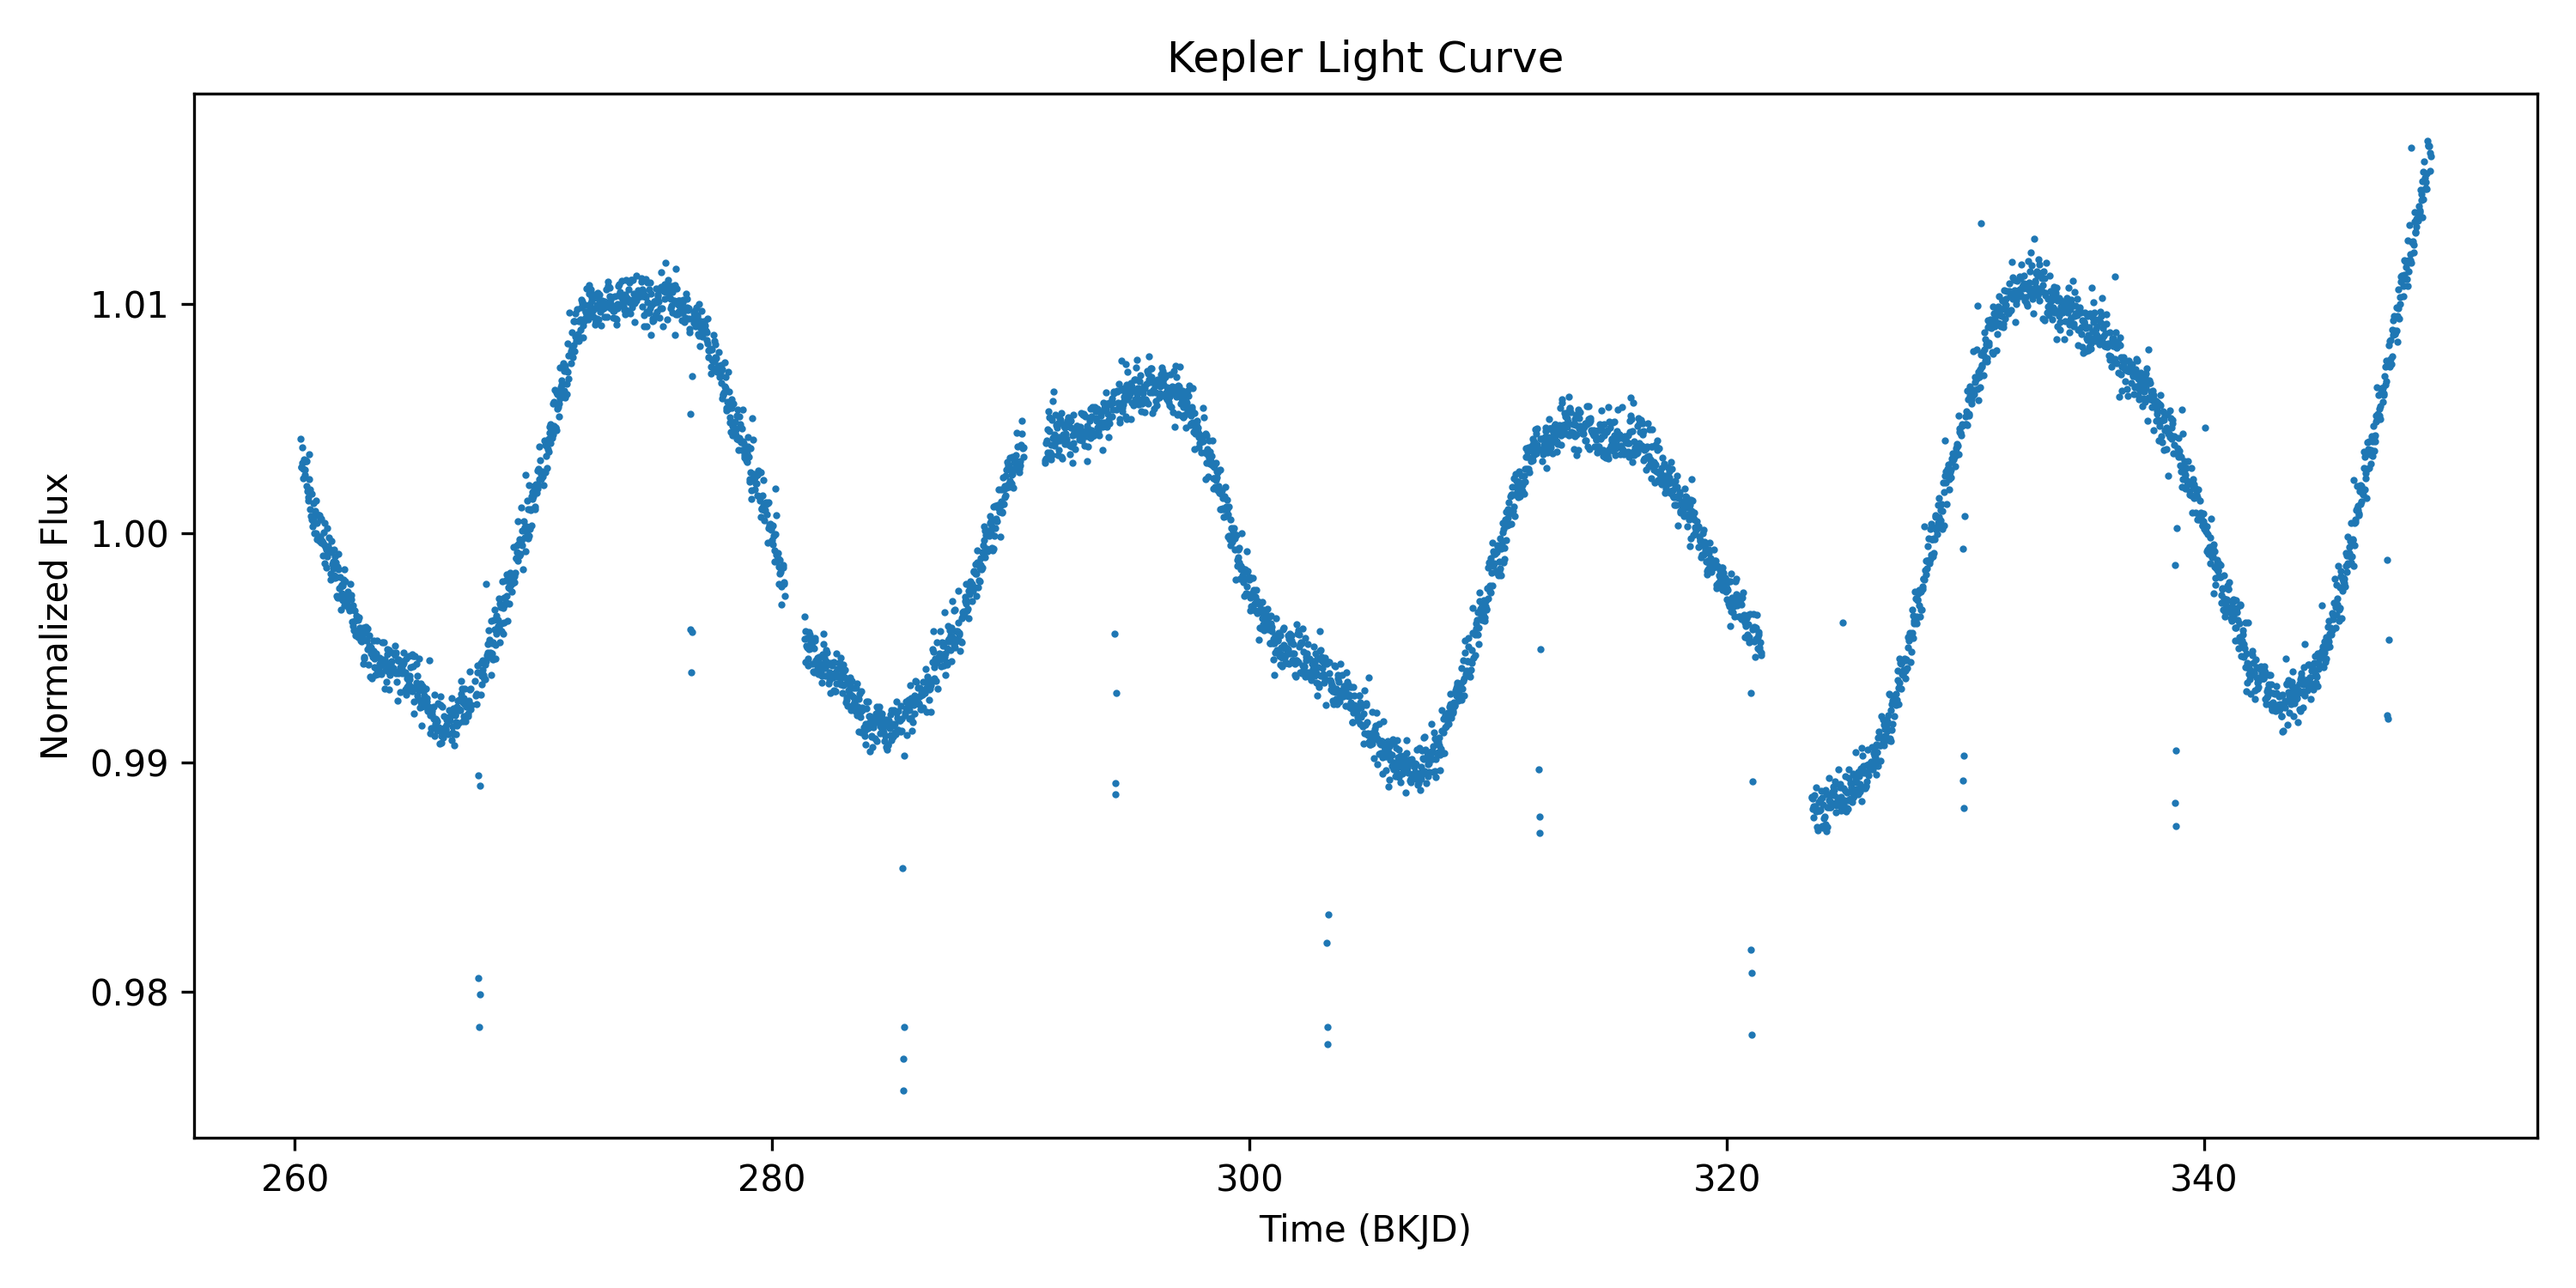
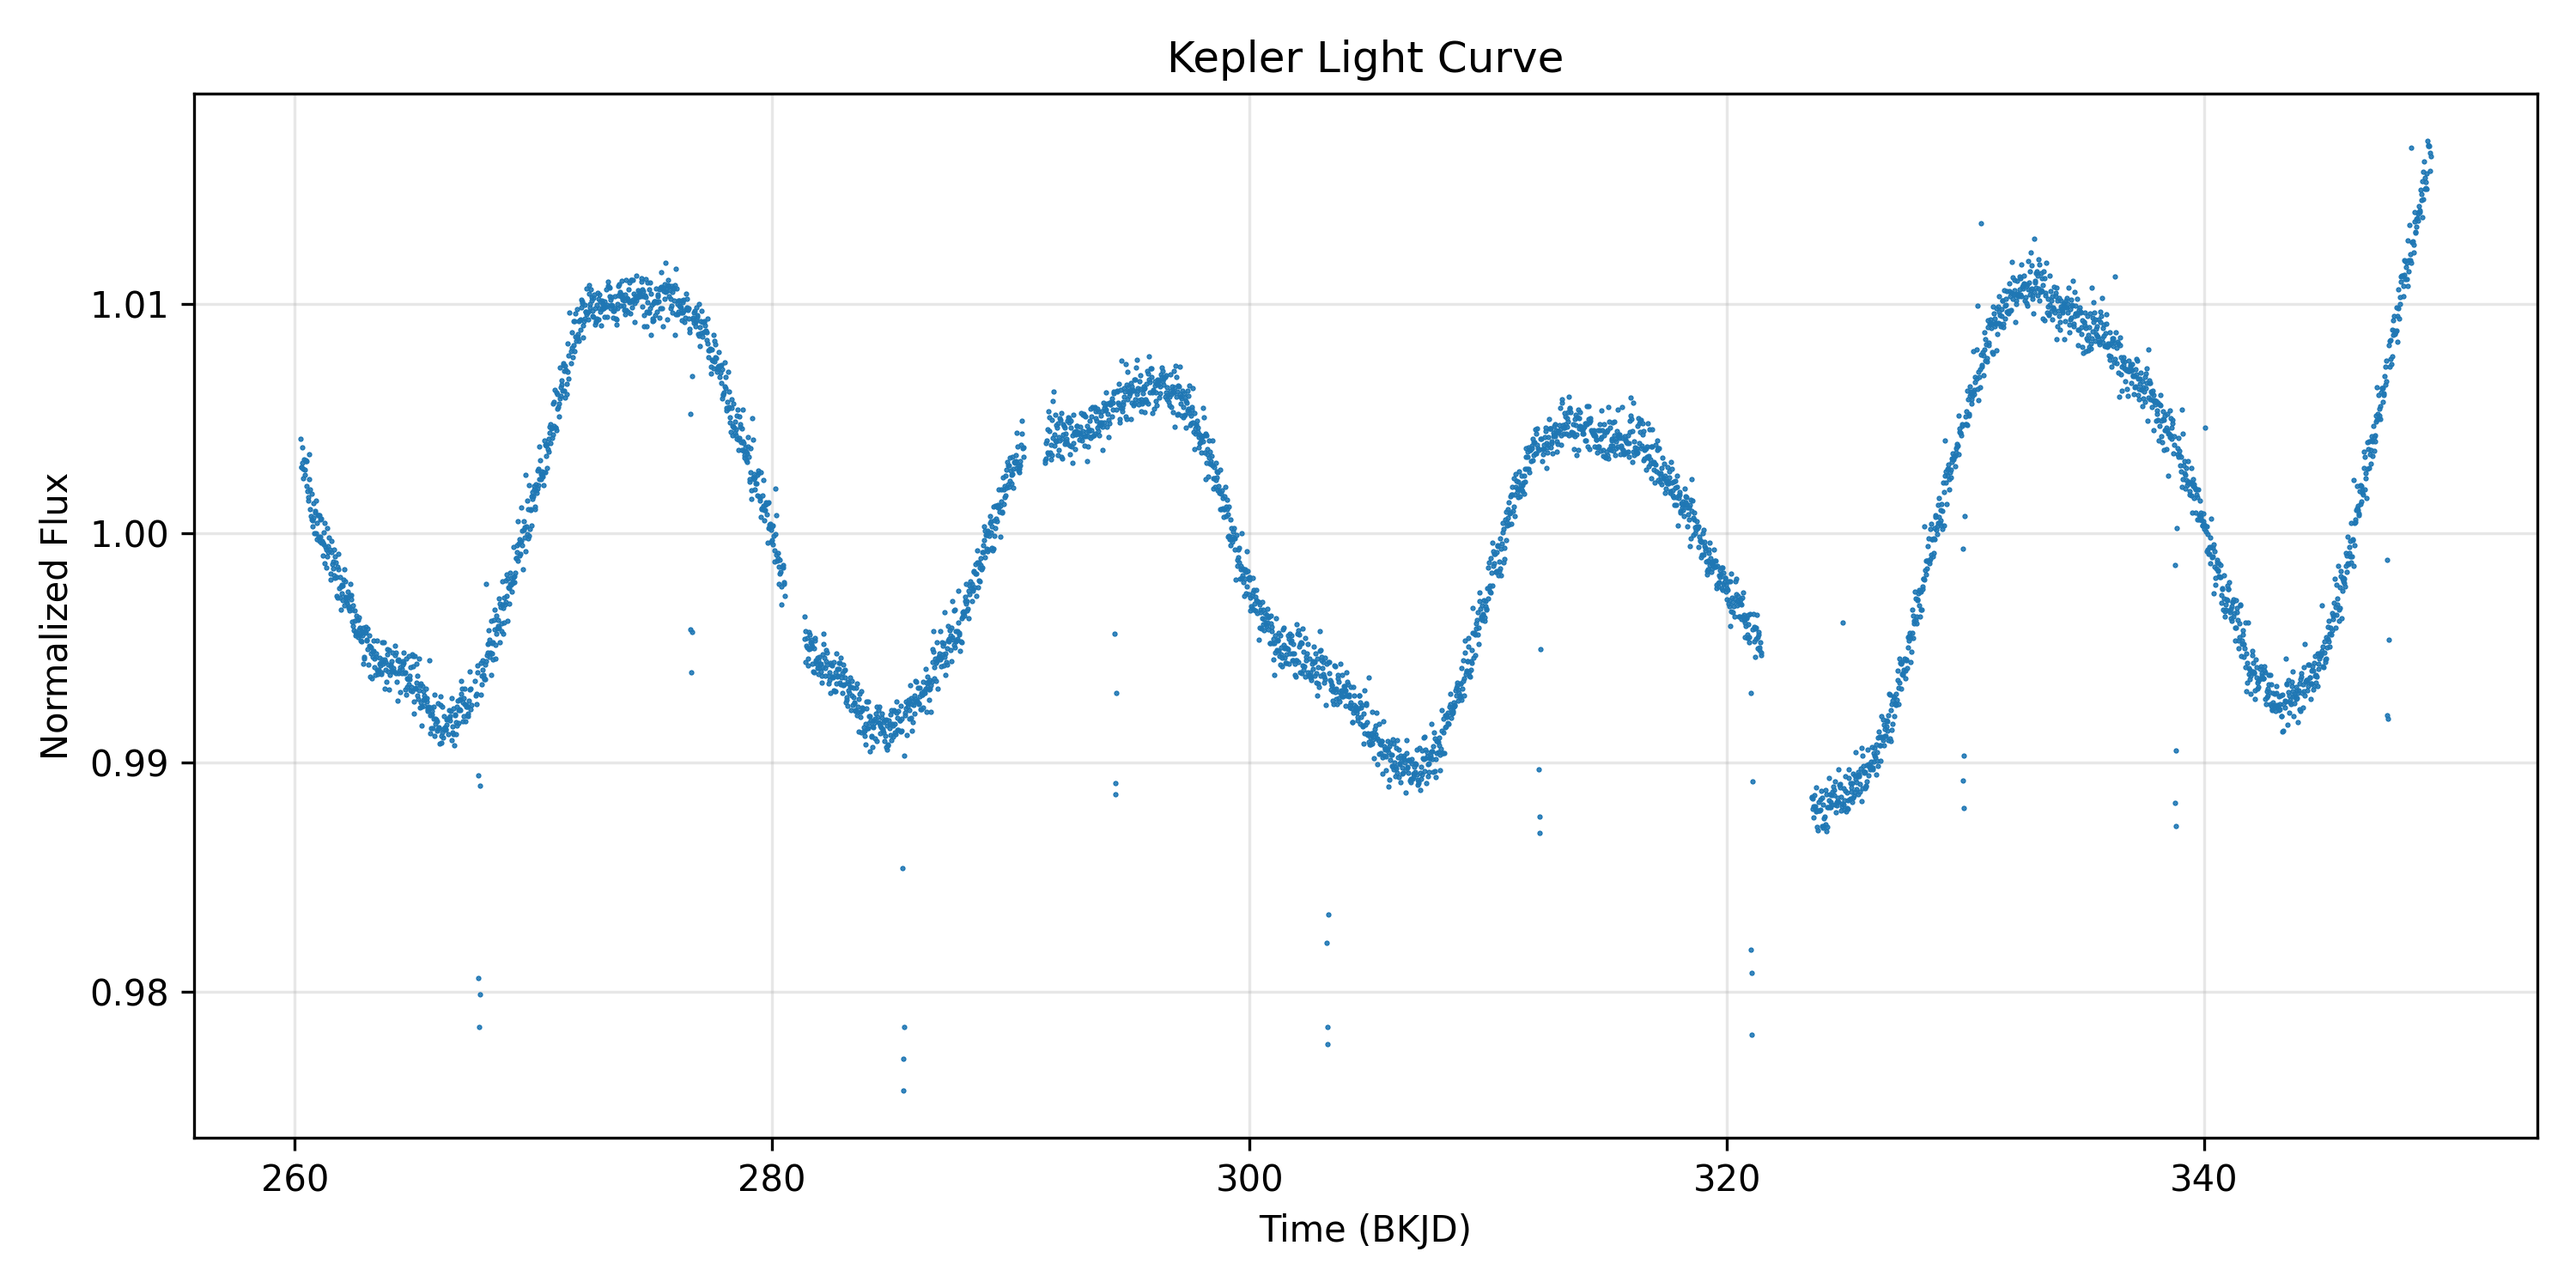
Clean script and add final visualizations

diff --git a/lightcurve.py b/lightcurve.py
@@ -4,22 +4,41 @@ import matplotlib.pyplot as plt
 
 filename = "kplr000757450-2009350155506_llc.fits"
 
+# Open FITS file
 hdul = fits.open(filename)
-data = hdul[1].data
 
+# Exploratory information
+hdul.info()
+data = hdul[1].data
+print(data.columns)
+
+# Extract data
 time = data["TIME"]
 flux = data["PDCSAP_FLUX"]
 
+# Clean data
 mask = np.isfinite(time) & np.isfinite(flux)
 time = time[mask]
 flux = flux[mask]
 
+# Normalize flux
 flux = flux / np.mean(flux)
 
-# remove mean for period search
+# Simple raw light curve plot
+plt.figure(figsize=(10, 5))
+plt.plot(time, flux, ".", markersize=1)
+plt.xlabel("Time (BKJD)")
+plt.ylabel("Normalized Flux")
+plt.title("Kepler Light Curve")
+plt.grid(alpha=0.3)
+plt.tight_layout()
+plt.savefig("lightcurve.png", dpi=300)
+plt.show()
+
+# Remove mean for period search
 flux_detrended = flux - np.mean(flux)
 
-# trial periods in days
+# Trial periods in days
 periods = np.linspace(5, 40, 2000)
 scores = []
 
@@ -29,8 +48,8 @@ for P in periods:
     c = np.cos(omega * time)
     model = np.column_stack((s, c, np.ones_like(time)))
     coeffs, _, _, _ = np.linalg.lstsq(model, flux_detrended, rcond=None)
-    fit = model @ coeffs
-    score = np.sum((fit - np.mean(flux_detrended))**2)
+    fit_trial = model @ coeffs
+    score = np.sum((fit_trial - np.mean(flux_detrended))**2)
     scores.append(score)
 
 scores = np.array(scores)
@@ -38,7 +57,7 @@ best_period = periods[np.argmax(scores)]
 
 print("Estimated period =", best_period, "days")
 
-# best-fit sinusoid
+# Best-fit sinusoid
 omega = 2 * np.pi / best_period
 s = np.sin(omega * time)
 c = np.cos(omega * time)
@@ -47,7 +66,7 @@ coeffs, _, _, _ = np.linalg.lstsq(model, flux_detrended, rcond=None)
 fit = model @ coeffs + np.mean(flux)
 
 # Plot 1: light curve with fit
-plt.figure(figsize=(10,5))
+plt.figure(figsize=(10, 5))
 plt.plot(time, flux, ".", markersize=1, label="Observed flux")
 plt.plot(time, fit, "-", linewidth=2, label="Best-fit periodic model")
 plt.xlabel("Time (days)")
@@ -56,105 +75,18 @@ plt.title("Kepler Light Curve with Periodic Fit")
 plt.grid(alpha=0.3)
 plt.legend()
 plt.tight_layout()
+plt.savefig("lightcurve_fit.png", dpi=300)
 plt.show()
 
 # Plot 2: score vs period
-plt.figure(figsize=(10,5))
+plt.figure(figsize=(10, 5))
 plt.plot(periods, scores)
 plt.xlabel("Trial Period (days)")
 plt.ylabel("Fit Score")
 plt.title("Period Search")
 plt.grid(alpha=0.3)
 plt.tight_layout()
+plt.savefig("period_search.png", dpi=300)
 plt.show()
 
 hdul.close()
-import numpy as np
-import matplotlib.pyplot as plt
-
-filename = "kplr000757450-2009350155506_llc.fits"
-
-hdul = fits.open(filename)
-hdul.info()
-
-data = hdul[1].data
-print(data.columns)
-
-time = data["TIME"]
-flux = data["PDCSAP_FLUX"]
-
-mask = np.isfinite(time) & np.isfinite(flux)
-time = time[mask]
-flux = flux[mask]
-
-flux = flux / np.mean(flux)
-
-plt.figure(figsize=(10,5))
-plt.plot(time, flux, ".", markersize=1)
-plt.xlabel("Time (days)")
-plt.ylabel("Normalized Flux")
-plt.title("Kepler Light Curve")
-plt.grid(alpha=0.3)
-plt.tight_layout()
-plt.show()
-
-import numpy as np
-import matplotlib.pyplot as plt
-
-filename = "kplr000757450-2009350155506_llc.fits"
-
-hdul = fits.open(filename)
-hdul.info()
-
-data = hdul[1].data
-print(data.columns)
-
-time = data["TIME"]
-flux = data["PDCSAP_FLUX"]
-
-mask = np.isfinite(time) & np.isfinite(flux)
-time = time[mask]
-flux = flux[mask]
-
-flux = flux / np.mean(flux)
-
-plt.plot(time, flux, ".", markersize=2)
-plt.xlabel("Time")
-plt.ylabel("Normalized Flux")
-plt.title("Light Curve")
-plt.show()
-
-hdul.close()
-from astropy.io import fits
-import numpy as np
-import matplotlib.pyplot as plt
-
-filename = "kplr000757450-2009350155506_llc.fits"
-
-hdul = fits.open(filename)
-hdul.info()
-
-data = hdul[1].data
-
-print(data.columns)
-
-time = data["TIME"]
-flux = data["PDCSAP_FLUX"]
-
-mask = np.isfinite(time) & np.isfinite(flux)
-time = time[mask]
-flux = flux[mask]
-
-flux = flux / np.mean(flux)
-
-plt.figure(figsize=(10,5))
-plt.plot(time, flux, ".", markersize=2)
-plt.xlabel("Time (BKJD)")
-plt.ylabel("Normalized Flux")
-plt.title("Kepler Light Curve")
-plt.tight_layout()
-plt.savefig("lightcurve.png", dpi=300)
-plt.show()
-
-hdul.close()
-
